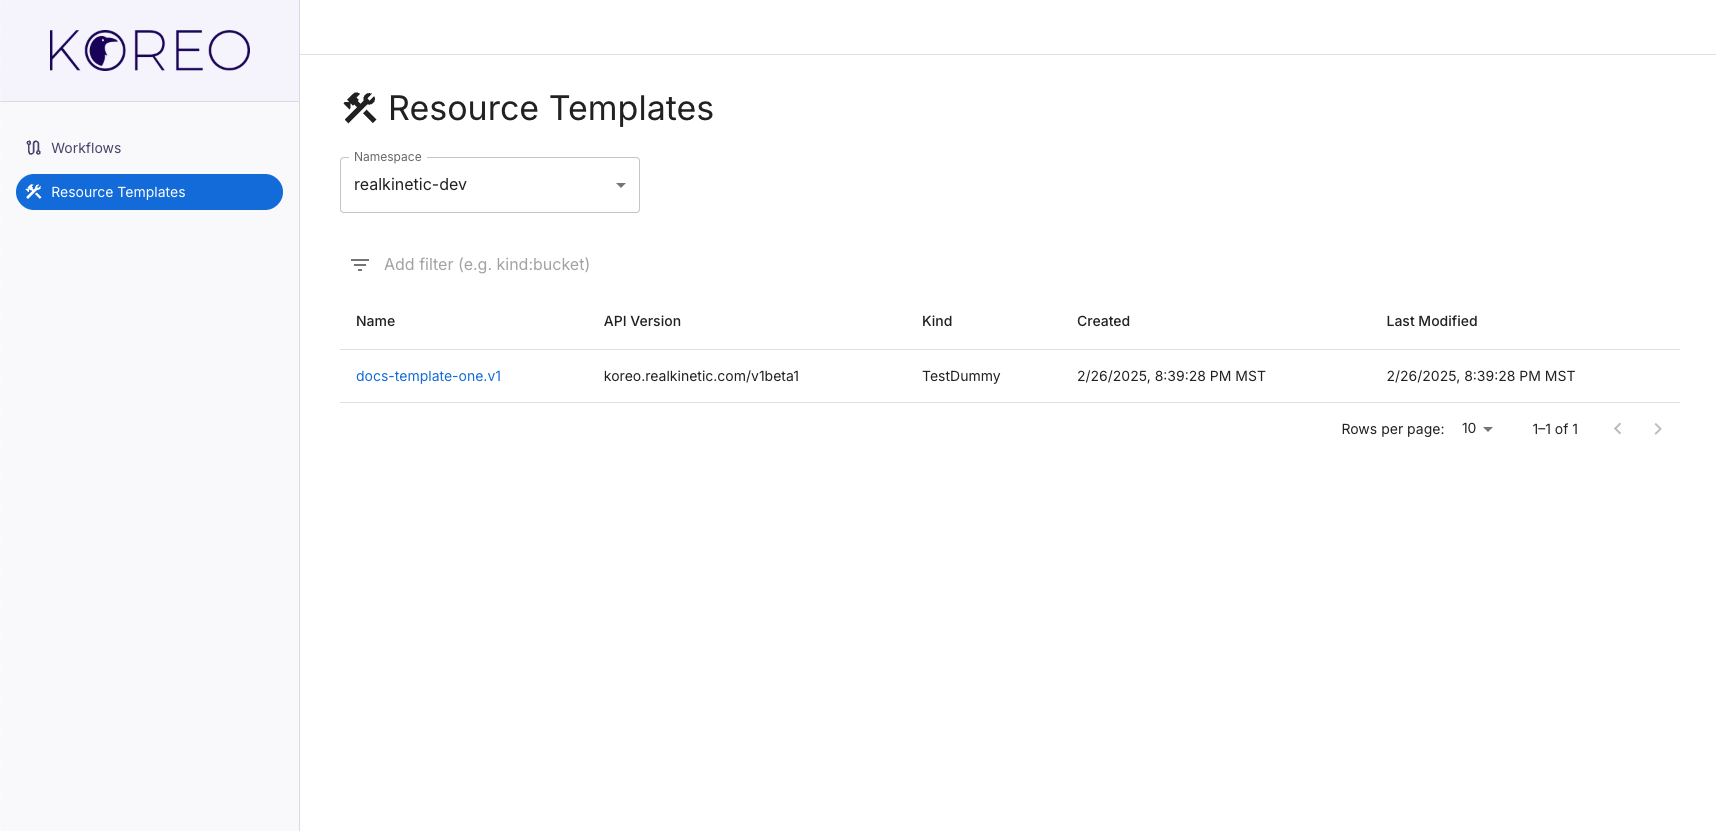
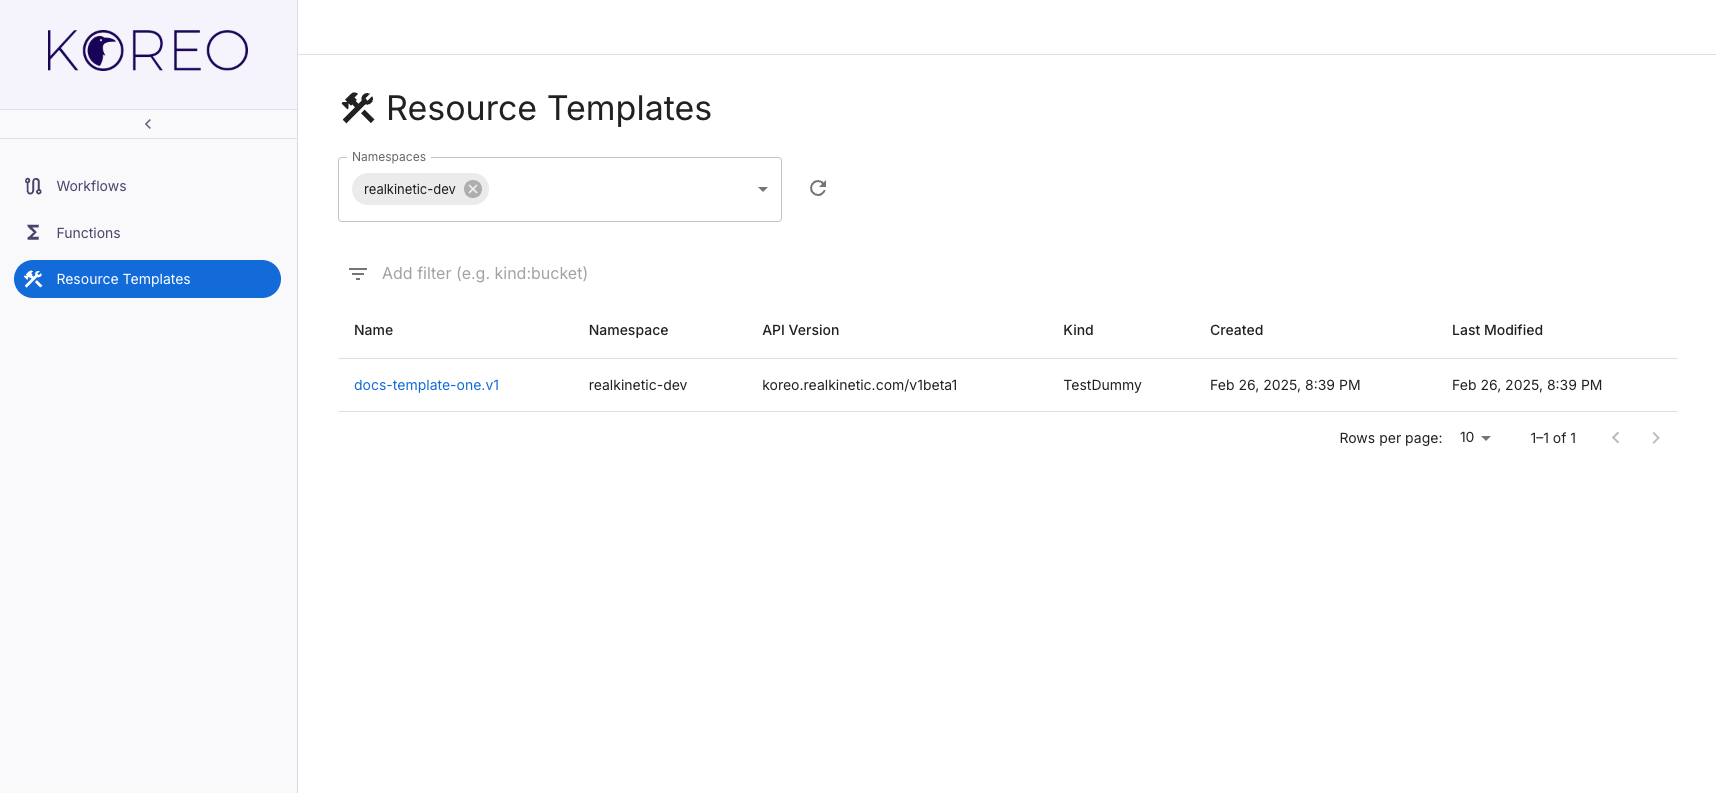
Update Koreo UI docs

diff --git a/docs/koreo-ui.md b/docs/koreo-ui.md
@@ -28,8 +28,8 @@ kubectl port-forward svc/koreo-controller-ui 8080:8080
 ## Viewing Workflows
 
 The home page of Koreo UI displays a list of Workflows by namespace. This list
-can be filtered by Name, Parent API Group, Parent Kind, Parent Version, Steps,
-and Instances.
+can be filtered by Name, Namespace, Parent API Group, Parent Kind, Parent
+Version, Steps, and Instances.
 
 <div className="docImage-100">
 ![Koreo UI Workflows](/img/docs/koreo-ui/koreo-ui-workflows.png)
@@ -70,10 +70,26 @@ and purple border.
 ![Koreo UI Workflow Instance Example](/img/docs/koreo-ui/koreo-ui-workflow-instance-example.png)
 </div>
 
+## Viewing Functions
+
+The Functions page shows a list of ValueFunctions and ResourceFunctions by
+namespace. This list can be filtered by Name, Namespace, and Kind.
+
+<div className="docImage-100">
+![Koreo UI Functions](/img/docs/koreo-ui/koreo-ui-functions.png)
+</div>
+
+Clicking into a Function will show the metadata for it as well as the Function
+`spec`.
+
+<div className="docImage-100">
+![Koreo UI Function Example](/img/docs/koreo-ui/koreo-ui-function-example.png)
+</div>
+
 ## Viewing ResourceTemplates
 
 The Resource Templates page shows a list of ResourceTemplates by namespace.
-This list can be filtered by Name, API Version, and Kind.
+This list can be filtered by Name, Namespace, API Version, and Kind.
 
 API Version and Kind refer to the KRM for which the ResourceTemplate
 corresponds to.
